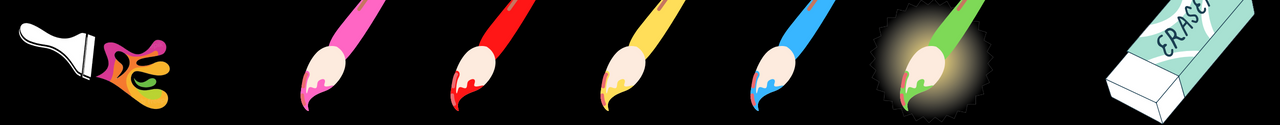
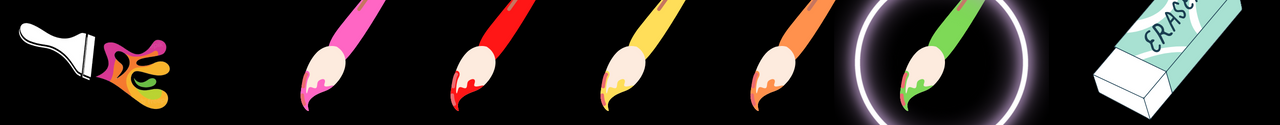
final commit

diff --git a/VirtualPainter.py b/VirtualPainter.py
@@ -1,92 +1,106 @@
-import cv2
-import numpy as np
-import time
-import os
-import HandTrackingModule as htm
+#####################
+# Title:- Virtual-Sketchpad
+# 1) Ujjwal Pathak 211105
+# 2) Aamya Chauhan 211112
+#####################
 
-#######################
+import cv2
+import os
+import numpy as np
+import HandTrackingModule as handTracModule
+
+# defining constants in (px)
 brushThickness = 25
 eraserThickness = 65
-########################
 
-
+# catching assets
 folderPath = "Header"
 myList = os.listdir(folderPath)
+# print(myList)
+
+# list for assets
 overlayList = []
-print(overlayList)
+
 for imPath in myList:
     image = cv2.imread(f'{folderPath}/{imPath}')
+    # print(image)
     overlayList.append(image)
+
+# initial header
 header = overlayList[0]
+# pink color (default)
 drawColor = (255, 0, 255)
 
+# video access
 cap = cv2.VideoCapture(0)
 cap.set(cv2.CAP_PROP_FRAME_WIDTH, 1280)
 cap.set(cv2.CAP_PROP_FRAME_HEIGHT, 720)
 
-detector = htm.handDetector(detectionCon=0.85, maxHands=2)
+# calling class
+detector = handTracModule.handTracking(detectionCon=0.5, maxHands=1)
 xp, yp = 0, 0
 imgCanvas = np.zeros((720, 1280, 3), np.uint8)
 
 while True:
-
-    # 1. Import image
+    # 1. import video
     success, img = cap.read()
     img = cv2.flip(img, 1)
 
-    # 2. Find Hand Landmarks
+    # 2. find hand locations
     img = detector.findHands(img)
+    # list with hand coordinates
     lmList = detector.findPosition(img, draw=False)
 
     if len(lmList) != 0:
-
-        # print(lmList)
-        # tip of index and middle fingers
+        # index finger coordinated
         x1, y1 = lmList[8][1:]
+        # middle finger coordinated
         x2, y2 = lmList[12][1:]
 
-        print(x1, x2, y1, y2)
         # 3. Check which fingers are up
-
         fingers = detector.fingersUp()
-        print(fingers)
 
-        # 4. If Selection Mode - Two finger are up
+        # 4. If Selection Mode
+        # if first index and secound index == 1 (i.e they are up)
         if fingers[1] and fingers[2]:
             xp, yp = 0, 0
-            print("Selection Mode")
+            # print("Selection Mode")
             # # Checking for the click
             if y1 < 125:
+                # print(x1)
                 if 245 < x1 < 390:
                     header = overlayList[0]
-                    drawColor = (255, 146, 230)
+                    drawColor = (178, 102, 255)
                 elif 391 < x1 < 536:
                     header = overlayList[1]
                     drawColor = (0, 0, 255)
                 elif 537 < x1 < 682:
                     header = overlayList[2]
-                    drawColor = (255, 255, 51)
+                    drawColor = (33, 239, 239)
                 elif 683 < x1 < 828:
-                    drawColor = (255, 0, 0)
                     header = overlayList[3]
+                    drawColor = (0, 165, 255)
                 elif 829 < x1 < 974:
                     header = overlayList[4]
                     drawColor = (0, 255, 0)
                 elif 975 < x1 < 1280:
-                    header = overlayList[0]
+                    header = overlayList[5]
                     drawColor = (0, 0, 0)
+                    # to show selected color
             cv2.rectangle(img, (x1, y1 - 25), (x2, y2 + 25),
                           drawColor, cv2.FILLED)
 
         # 5. If Drawing Mode - Index finger is up
         if fingers[1] and fingers[2] == False:
             cv2.circle(img, (x1, y1), 15, drawColor, cv2.FILLED)
-            print("Drawing Mode")
+            # print("Drawing Mode")
             if xp == 0 and yp == 0:
                 xp, yp = x1, y1
 
             cv2.line(img, (xp, yp), (x1, y1), drawColor, brushThickness)
 
+            # conditions to draw
+            # condition to use eraser
             if drawColor == (0, 0, 0):
                 cv2.line(img, (xp, yp), (x1, y1), drawColor, eraserThickness)
                 cv2.line(imgCanvas, (xp, yp), (x1, y1),
@@ -96,7 +110,6 @@ while True:
                 cv2.line(img, (xp, yp), (x1, y1), drawColor, brushThickness)
                 cv2.line(imgCanvas, (xp, yp), (x1, y1),
                          drawColor, brushThickness)
-
             xp, yp = x1, y1
 
         # Clear Canvas when all fingers are up
@@ -111,8 +124,5 @@ while True:
 
     # Setting the header image
     img[0:125, 0:1280] = header
-    # img = cv2.addWeighted(img,0.5,imgCanvas,0.5,0)
     cv2.imshow("Image", img)
-    # cv2.imshow("Canvas", imgCanvas)
-    # cv2.imshow("Inv", imgInv)
     cv2.waitKey(1)

diff --git a/HandTrackingModule.py b/HandTrackingModule.py
@@ -1,11 +1,11 @@
+# modules imported
 import cv2
 import mediapipe as mp
 import time
-import math
-import numpy as np
 
-class handDetector():
-    def __init__(self, mode=False, modelComplexity=1, maxHands=2, detectionCon=0.5, trackCon=0.5):
+class handTracking():
+    # constructor
+    def __init__(self, mode=False, modelComplexity=1, maxHands=1, detectionCon=0.5, trackCon=0.5):
         self.mode = mode
         self.maxHands = maxHands
         self.detectionCon = detectionCon
@@ -13,46 +13,35 @@ class handDetector():
         self.modelComplex = modelComplexity
         self.mpHands = mp.solutions.mediapipe.python.solutions.hands
         self.mpDraw = mp.solutions.mediapipe.python.solutions.drawing_utils
-        self.hands = self.mpHands.Hands(self.mode, self.maxHands, self.modelComplex, self.detectionCon, self.trackCon)
+        self.hands = self.mpHands.Hands(
+            self.mode, self.maxHands, self.modelComplex, self.detectionCon, self.trackCon)
         self.tipIds = [4, 8, 12, 16, 20]
 
+        # function to recog hands
     def findHands(self, img, draw=True):
-        
         imgRGB = cv2.cvtColor(img, cv2.COLOR_BGR2RGB)
         self.results = self.hands.process(imgRGB)
-
         if self.results.multi_hand_landmarks:
             for handLms in self.results.multi_hand_landmarks:
                 if draw:
                     self.mpDraw.draw_landmarks(img, handLms,
-                    self.mpHands.HAND_CONNECTIONS)
-
+                                               self.mpHands.HAND_CONNECTIONS)
         return img
 
+        # function to find position of hands
     def findPosition(self, img, handNo=0, draw=True):
-        xList = []
-        yList = []
-        bbox = []
         self.lmList = []
         if self.results.multi_hand_landmarks:
             myHand = self.results.multi_hand_landmarks[handNo]
             for id, lm in enumerate(myHand.landmark):
-                # print(id, lm)
                 h, w, c = img.shape
                 cx, cy = int(lm.x * w), int(lm.y * h)
-                # xList.append(cx)
-                # yList.append(cy)
-                # print(id, cx, cy)
                 self.lmList.append([id, cx, cy])
-        # xmin, xmax = min(xList, default=0), max(xList, default=0)
-        # ymin, ymax = min(yList, default=0), max(yList, default=0)
-        # bbox = xmin, ymin, xmax, ymax
                 if draw:
                     cv2.circle(img, (cx, cy), 5, (255, 0, 255), cv2.FILLED)
-
-    
         return self.lmList
 
+        # to detech no of fingers->up
     def fingersUp(self):
         fingers = []
         # Thumb
@@ -60,50 +49,32 @@ class handDetector():
             fingers.append(1)
         else:
             fingers.append(0)
-
         # Fingers
         for id in range(1, 5):
             if self.lmList[self.tipIds[id]][2] < self.lmList[self.tipIds[id] - 2][2]:
                 fingers.append(1)
             else:
                 fingers.append(0)
-
-            # totalFingers = fingers.count(1)
-
         return fingers
 
-    def findDistance(self, p1, p2, img, draw=True,r=15, t=3):
-        x1, y1 = self.lmList[p1][1:]
-        x2, y2 = self.lmList[p2][1:]
-        cx, cy = (x1 + x2) // 2, (y1 + y2) // 2
-
-        if draw:
-            cv2.line(img, (x1, y1), (x2, y2), (255, 0, 255), t)
-            cv2.circle(img, (x1, y1), r, (255, 0, 255), cv2.FILLED)
-            cv2.circle(img, (x2, y2), r, (255, 0, 255), cv2.FILLED)
-            cv2.circle(img, (cx, cy), r, (0, 0, 255), cv2.FILLED)
-            length = math.hypot(x2 - x1, y2 - y1)
-
-        return length, img, [x1, y1, x2, y2, cx, cy]
 
 def main():
     pTime = 0
     cTime = 0
+
+    # video access
     cap = cv2.VideoCapture(0)
-    detector = handDetector()
+    detector = handTracking()
     while True:
-        success, img = cap.read()
+        img = cap.read()
         img = detector.findHands(img)
-        lmList, bbox = detector.findPosition(img)
-        # if len(lmList) != 0:
-        #     print(lmList[4])
 
         cTime = time.time()
         fps = 1 / (cTime - pTime)
         pTime = cTime
 
         cv2.putText(img, str(int(fps)), (10, 70), cv2.FONT_HERSHEY_PLAIN, 3,
-        (255, 0, 255), 3)
+                    (255, 0, 255), 3)
 
         cv2.imshow("Image", img)
         cv2.waitKey(1)
